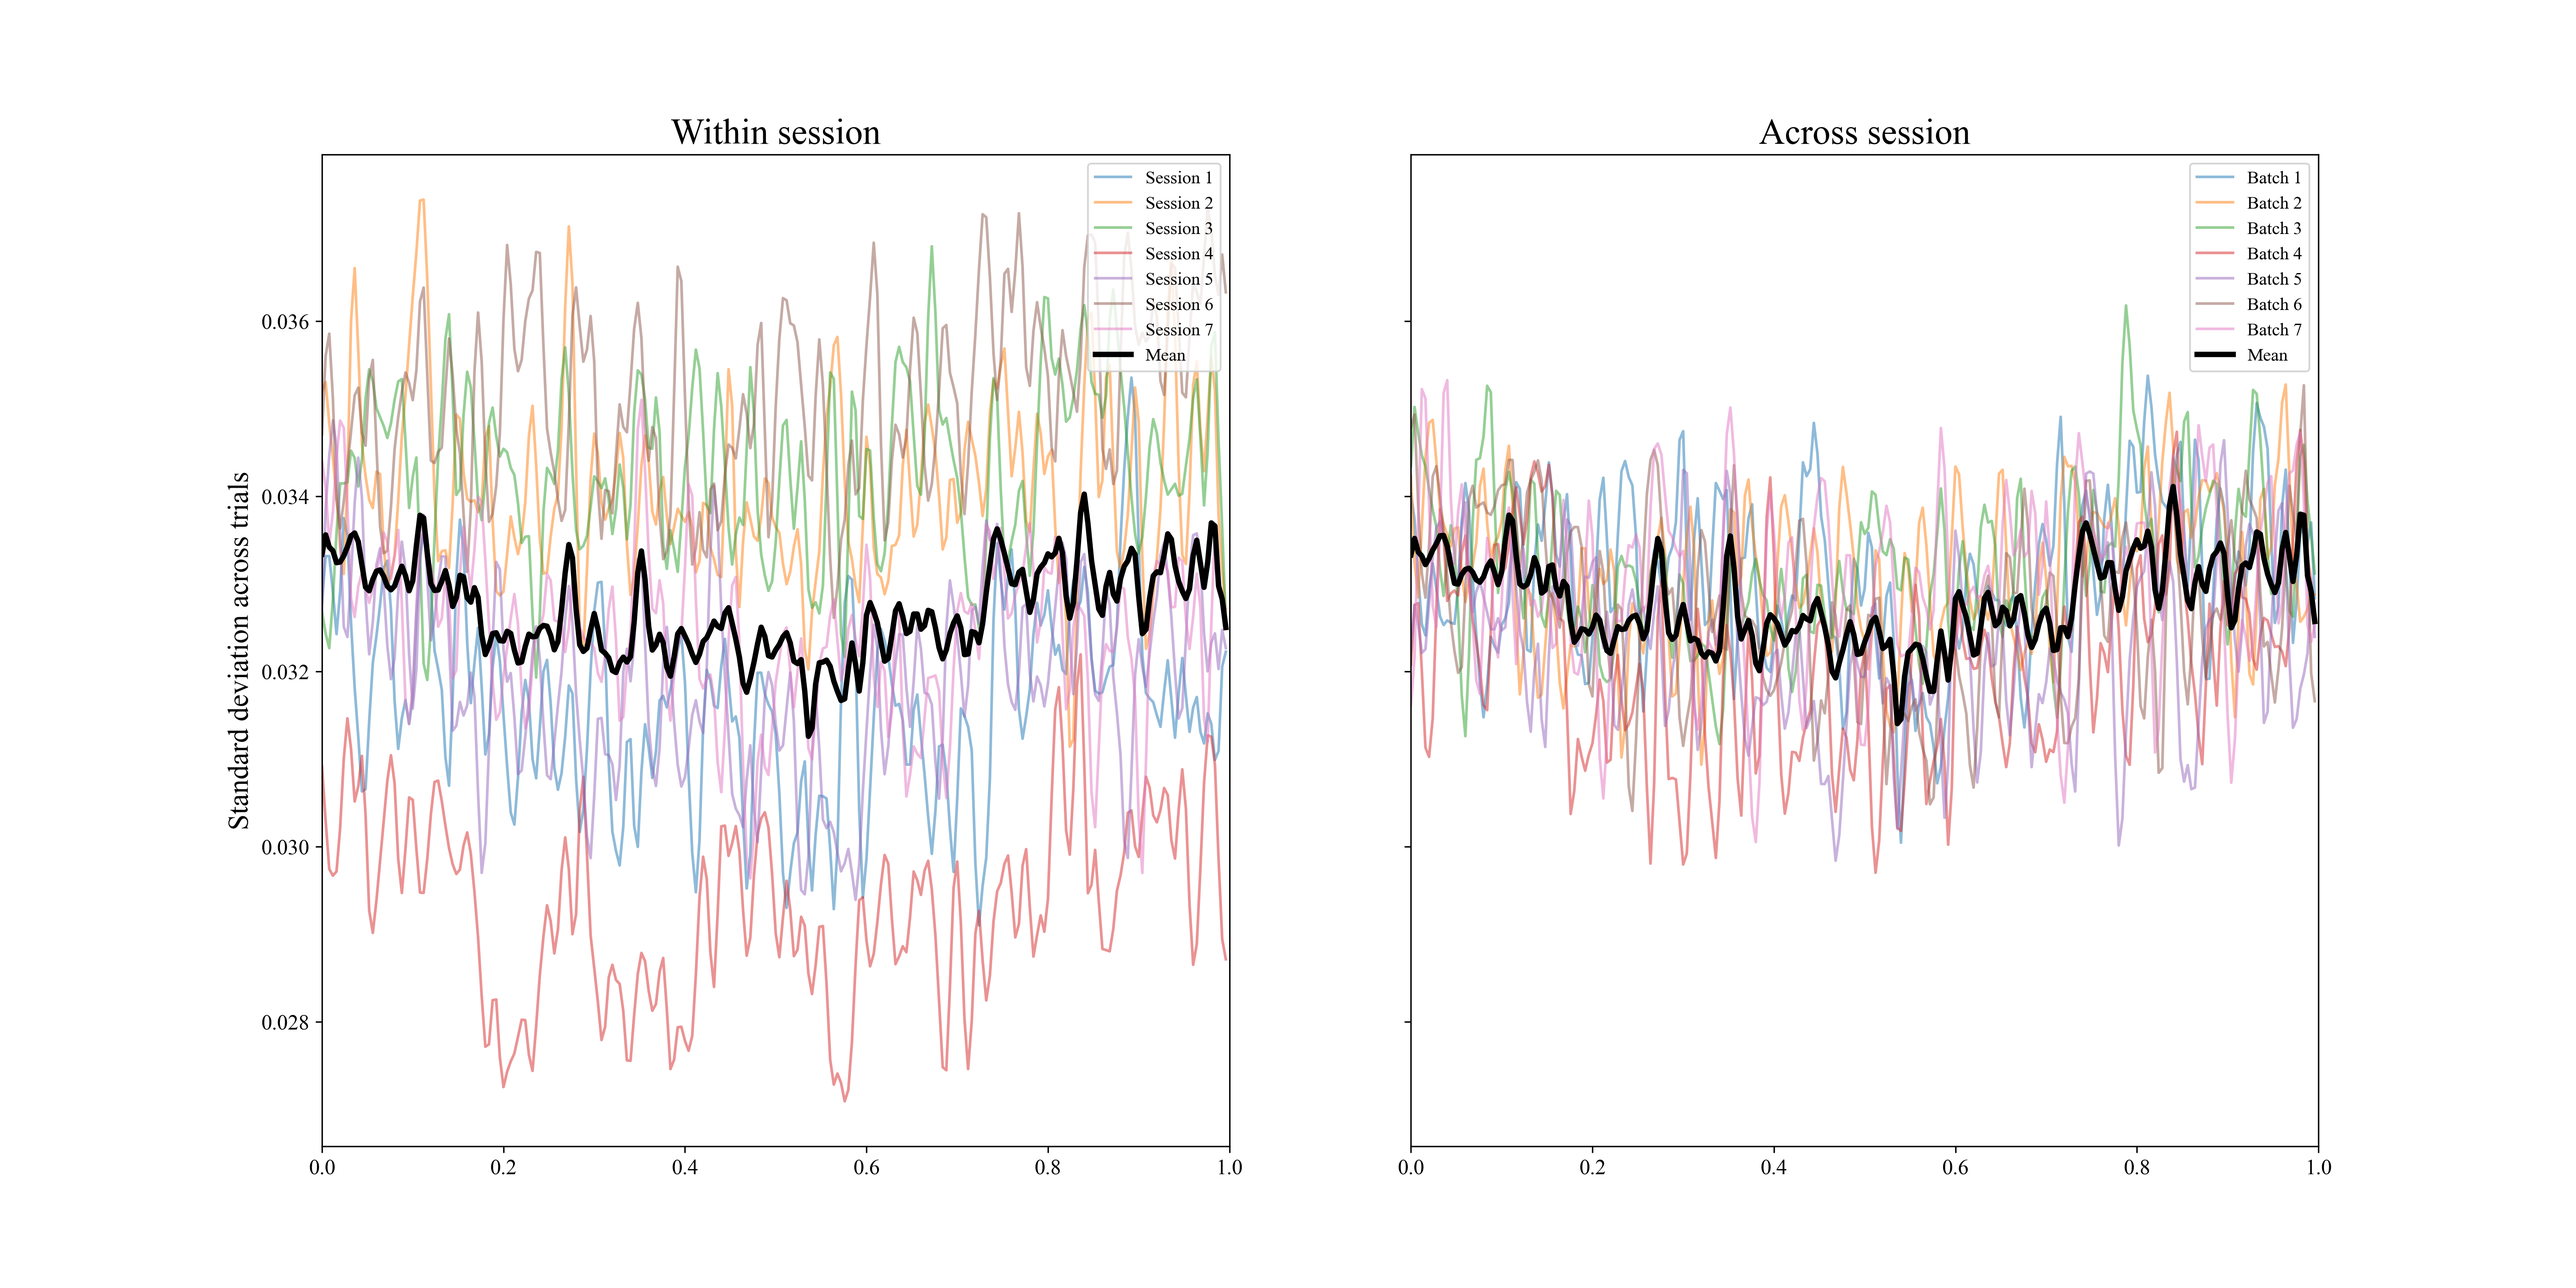
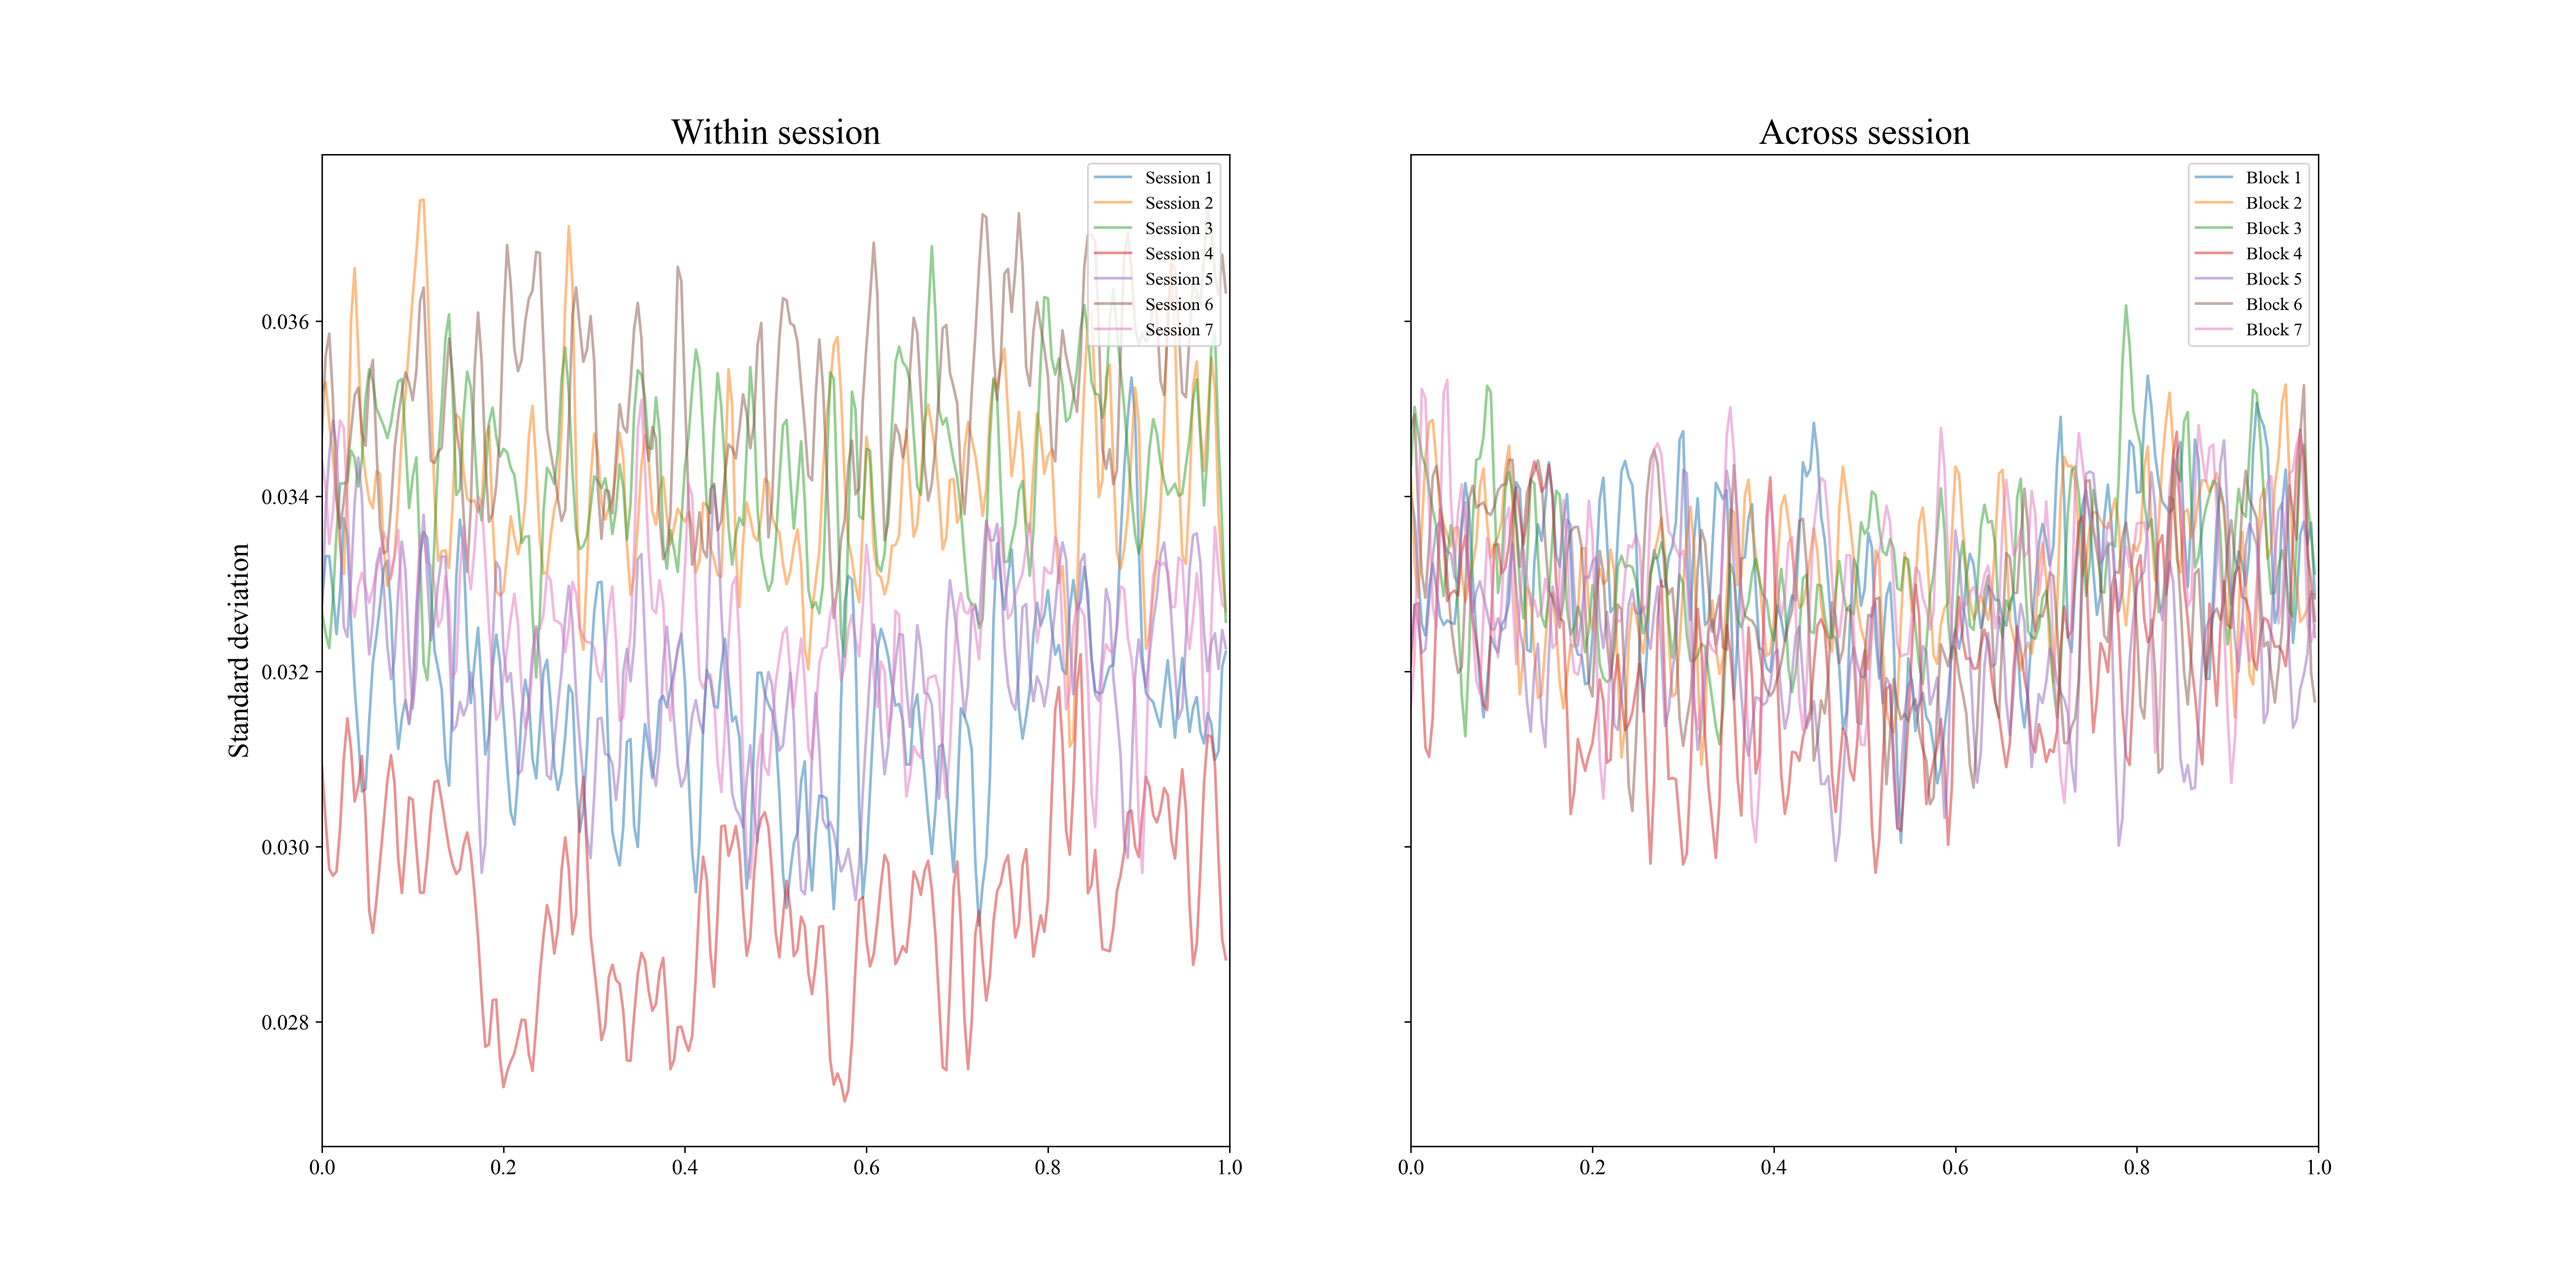
updates

diff --git a/ERF_analysis/erf.py b/ERF_analysis/erf.py
@@ -117,11 +117,16 @@ def plot_var_bins_within_sesh(Xbin, ybin, Xsesh, ysesh , savepath, figsize = (20
 
 
 
-def plot_std(Xbin, Xsesh, savepath = None):
+def plot_std(Xbin, Xsesh, savepath = None, sens = False):
     std_blocks = get_std(Xbin)
-    np.save('std_blocks.npy', std_blocks)
     std_session = get_std(Xsesh)
-    np.save('std_sessions.npy', std_session)
+
+    if not sens:
+        np.save('std_blocks.npy', std_blocks)
+        np.save('std_sessions.npy', std_session)
+    else:
+        np.save('std_blocks_sens.npy', std_blocks)
+        np.save('std_sessions_sens.npy', std_session)
 
     fig, axs = plt.subplots(1,2, figsize=(20,10), dpi = 300, sharey=True)
     for ax in axs:
@@ -130,7 +135,7 @@ def plot_std(Xbin, Xsesh, savepath = None):
             ax.set_title('Within session', fontsize=20)
             for i in range(len(std)):
                 ax.plot(std[i], label=f'Session {i+1}', alpha=0.5)
-            ax.plot(np.mean(np.array(std), axis = 0), color='black', linewidth=3, label='Mean')
+            #ax.plot(np.mean(np.array(std), axis = 0), color='black', linewidth=3, label='Mean')
             #ax.fill_between(np.arange(0, 250), np.mean(np.array(std), axis = 0) - np.std(np.array(std), axis = 0), np.mean(np.array(std), axis = 0) + np.std(np.array(std), axis = 0), color='black', alpha=0.2)
 
         else:
@@ -138,7 +143,7 @@ def plot_std(Xbin, Xsesh, savepath = None):
             ax.set_title('Across session', fontsize=20)
             for i in range(len(std)):
                 ax.plot(std[i], label=f'Block {i+1}', alpha=0.5)
-            ax.plot(np.mean(np.array(std), axis = 0), color='black', linewidth=3, label='Mean')
+            #ax.plot(np.mean(np.array(std), axis = 0), color='black', linewidth=3, label='Mean')
             #ax.fill_between(np.arange(0, 250), np.mean(np.array(std), axis = 0) - np.std(np.array(std), axis = 0), np.mean(np.array(std), axis = 0) + np.std(np.array(std), axis = 0), color='black', alpha=0.2)
             
         ax.legend(loc = 'upper right')
@@ -156,9 +161,15 @@ def plot_std(Xbin, Xsesh, savepath = None):
 if __name__ == '__main__':
     Xbin, ybin, Xsesh, ysesh = prep_data()
     Xsesh = [np.concatenate(i, axis = 2) for i in Xsesh]
-    Xsesh = [np.transpose(i.squeeze(), (0,1,2)) for i in Xsesh]
+    Xsesh = [i.squeeze() for i in Xsesh]
     ysesh = [np.concatenate(i, axis = 0) for i in ysesh]
 
     plot_var_bins_within_sesh(Xbin, ybin, Xsesh, ysesh, figsize=(15,20), savepath = f'plots/bin_sesh_erp_animate_vs_inanimate.png')
     plot_std(Xbin, Xsesh, savepath = f'plots/std_bin_sesh_erf.png')
 
+
+    Xbin, ybin, Xsesh, ysesh = prep_data(sens = True)
+    Xsesh = [np.concatenate(i, axis = 2) for i in Xsesh]
+    Xsesh = [i.squeeze() for i in Xsesh]
+    ysesh = [np.concatenate(i, axis = 0) for i in ysesh]
+    plot_std(Xbin, Xsesh, savepath = f'plots/std_bin_sesh_erf_sens.png', sens = True)

diff --git a/decoding/cross_decoding.py b/decoding/cross_decoding.py
@@ -16,7 +16,7 @@ import argparse as ap
 
 classification = True
 ncv = 10
-ncores = 4 #mp.cpu_count()
+ncores = mp.cpu_count()
 alpha = 'auto'
 model_type = 'LDA' # can be either LDA, SVM or RidgeClassifier
 now = datetime.now()
@@ -48,7 +48,7 @@ def get_accuracy(input:tuple, classification=classification, ncv=ncv):
 if __name__ == '__main__':
     parser = ap.ArgumentParser()
     # add sens as an argument, true or false
-    parser.add_argument('--sens', type=bool, help='True if you want to use sensor space, False if you want to use source space')
+    parser.add_argument('--sens', type=bool, help='If you want to use sensor space')
     args = parser.parse_args()
     sens = args.sens
 
